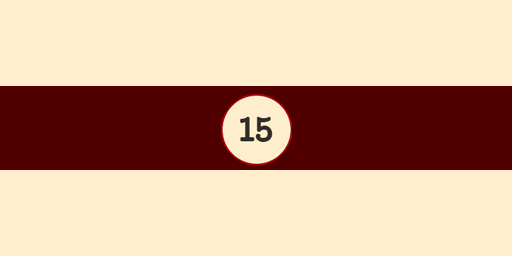
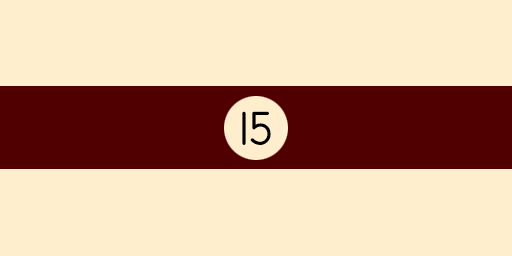
updated ball graphics, fixed shawdow rendering error

Changed region(s): [[0.0, 0.3438, 1.0, 0.6875]]

diff --git a/js/Game.js b/js/Game.js
@@ -189,13 +189,10 @@ class Game {
 
                     if (child.name == 'Felt') {
                         this.edges = child;
+                        child.receiveShadow = true;
                     }
                     if (child.isMesh) {
                         child.material.envMap = this.scene.environment;
-                    }
-                    if (child.parent !== null && child.parent.name !== null && child.parent.name == 'Felt') {
-
-                        child.receiveShadow = true;
                     }
                 })
                 this.scene.add(gltf.scene);

diff --git a/js/Ball.js b/js/Ball.js
@@ -75,7 +75,9 @@ class Ball{
         const material = new THREE.MeshStandardMaterial({
             metalness: 0.0,
             roughness: 0.1,
-            envMap: scene.environment
+            envMap: scene.environment,
+            //set color to 0xffeecd
+            color: 0xffeecd
         });
   
         if (this.id>0){
